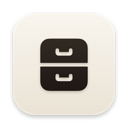
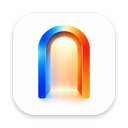
新 App 圖示（拱門）；選單列改用拱門線條圖示，任何東西拖上去就收進珍奇櫃
Claude-Session: https://claude.ai/code/session_01C1Pj9U9BGrmXD7wjvS5Ajy

diff --git a/scripts/icon/make-icon.swift b/scripts/icon/make-icon.swift
@@ -1,13 +1,12 @@
-// App icon: the Reicon "cabinet" in ink on a sheet of paper.
+// App icon: the arch (a doorway into the cabinet), on the macOS icon grid.
 // 用法：swift scripts/icon/make-icon.swift <輸出的 1024 PNG>
 import AppKit
 
 let out = URL(fileURLWithPath: CommandLine.arguments[1])
 let size: CGFloat = 1024
-let glyphURL = URL(fileURLWithPath: "Wunderkammer/Resources/Assets.xcassets/Reicon/cabinet.filled.imageset/cabinet.filled.svg")
-guard let glyph = NSImage(contentsOf: glyphURL),
-      let mask = glyph.cgImage(forProposedRect: nil, context: nil, hints: [.ctm: AffineTransform(scale: 40)]) else {
-    fatalError("Reicon cabinet missing: run python3 scripts/reicon/generate.py")
+guard let art = NSImage(contentsOf: URL(fileURLWithPath: "scripts/icon/arch-source.png"))?
+        .cgImage(forProposedRect: nil, context: nil, hints: nil) else {
+    fatalError("scripts/icon/arch-source.png missing")
 }
 
 let rep = NSBitmapImageRep(bitmapDataPlanes: nil, pixelsWide: Int(size), pixelsHigh: Int(size), bitsPerSample: 8,
@@ -16,48 +15,31 @@ let rep = NSBitmapImageRep(bitmapDataPlanes: nil, pixelsWide: Int(size), pixelsH
 NSGraphicsContext.saveGraphicsState()
 NSGraphicsContext.current = NSGraphicsContext(bitmapImageRep: rep)
 let ctx = NSGraphicsContext.current!.cgContext
-let srgb = CGColorSpace(name: CGColorSpace.sRGB)!
 
 // macOS icon grid: 824 pt body centred in 1024, continuous corners.
 let body = CGRect(x: 100, y: 100, width: 824, height: 824)
 let shape = CGPath(roundedRect: body, cornerWidth: 185, cornerHeight: 185, transform: nil)
 
+// The body's shadow, then the artwork (white ground and all) clipped to it.
 ctx.saveGState()
 ctx.setShadow(offset: CGSize(width: 0, height: -14), blur: 34, color: CGColor(gray: 0, alpha: 0.28))
 ctx.addPath(shape)
-ctx.setFillColor(CGColor(srgbRed: 0.95, green: 0.93, blue: 0.89, alpha: 1))
+ctx.setFillColor(CGColor(gray: 1, alpha: 1))
 ctx.fillPath()
 ctx.restoreGState()
 
-// Paper: lighter at the top, a touch warmer at the bottom.
 ctx.saveGState()
 ctx.addPath(shape)
 ctx.clip()
-let paper = CGGradient(colorsSpace: srgb, colors: [
-    CGColor(srgbRed: 0.975, green: 0.962, blue: 0.935, alpha: 1),
-    CGColor(srgbRed: 0.918, green: 0.890, blue: 0.835, alpha: 1),
-] as CFArray, locations: [0, 1])!
-ctx.drawLinearGradient(paper, start: CGPoint(x: 0, y: body.maxY), end: CGPoint(x: 0, y: body.minY), options: [])
-// A faint inner edge, like the rim of a card.
-ctx.addPath(CGPath(roundedRect: body.insetBy(dx: 3, dy: 3), cornerWidth: 182, cornerHeight: 182, transform: nil))
-ctx.setStrokeColor(CGColor(gray: 1, alpha: 0.55))
-ctx.setLineWidth(4)
-ctx.strokePath()
-
-// The cabinet, in ink, with a soft shadow on the paper.
-let g: CGFloat = 470
-let glyphRect = CGRect(x: (size - g) / 2, y: (size - g) / 2 - 6, width: g, height: g)
-ctx.setShadow(offset: CGSize(width: 0, height: -10), blur: 22, color: CGColor(srgbRed: 0.25, green: 0.18, blue: 0.1, alpha: 0.28))
-ctx.beginTransparencyLayer(auxiliaryInfo: nil)
-ctx.clip(to: glyphRect, mask: mask)
-let ink = CGGradient(colorsSpace: srgb, colors: [
-    CGColor(srgbRed: 0.20, green: 0.17, blue: 0.14, alpha: 1),
-    CGColor(srgbRed: 0.11, green: 0.09, blue: 0.08, alpha: 1),
-] as CFArray, locations: [0, 1])!
-ctx.drawLinearGradient(ink, start: CGPoint(x: 0, y: glyphRect.maxY), end: CGPoint(x: 0, y: glyphRect.minY), options: [])
-ctx.endTransparencyLayer()
+ctx.interpolationQuality = .high
+ctx.draw(art, in: body)
 ctx.restoreGState()
+
+// A hairline so the white body holds its edge on a light Dock.
+ctx.addPath(shape)
+ctx.setStrokeColor(CGColor(gray: 0, alpha: 0.08))
+ctx.setLineWidth(2)
+ctx.strokePath()
 
 NSGraphicsContext.restoreGraphicsState()
 try! rep.representation(using: .png, properties: [:])!.write(to: out)
-print("寫入 \(out.path)")

diff --git a/Wunderkammer/App/StatusDrop.swift b/Wunderkammer/App/StatusDrop.swift
@@ -1,0 +1,69 @@
+import AppKit
+
+/// The menu bar icon: the app's arch, drawn in line. Anything dragged onto it
+/// (files, pictures, links, text) is collected; while something is held over
+/// it the arch fills in, so you know letting go will take it.
+@MainActor
+final class StatusDrop: NSObject, NSWindowDelegate, NSDraggingDestination {
+    /// Collects what was dropped; false when there was nothing it could use.
+    var onDrop: ((NSPasteboard) -> Bool)?
+
+    private weak var button: NSStatusBarButton?
+
+    /// An arch, ∩, as a menu bar template: outlined, or filled while a drop hovers.
+    static func arch(filled: Bool) -> NSImage {
+        let image = NSImage(size: NSSize(width: 18, height: 18), flipped: false) { _ in
+            let w: CGFloat = 11, legs: CGFloat = 3, top: CGFloat = 15.5, inset = (18 - w) / 2
+            let r = w / 2
+            let path = NSBezierPath()
+            path.move(to: NSPoint(x: inset, y: legs))
+            path.line(to: NSPoint(x: inset, y: top - r))
+            path.appendArc(withCenter: NSPoint(x: 9, y: top - r), radius: r, startAngle: 180, endAngle: 0, clockwise: true)
+            path.line(to: NSPoint(x: 18 - inset, y: legs))
+            NSColor.black.set()
+            if filled {
+                path.close()
+                path.fill()
+            } else {
+                path.lineWidth = 2
+                path.lineCapStyle = .round
+                path.lineJoinStyle = .round
+                path.stroke()
+            }
+            return true
+        }
+        image.isTemplate = true
+        image.accessibilityDescription = "Wunderkammer"
+        return image
+    }
+
+    /// Takes drops on the status item's button. The status item's window hands
+    /// its dragging messages to its delegate, which is this.
+    func attach(to button: NSStatusBarButton) {
+        self.button = button
+        button.image = Self.arch(filled: false)
+        button.window?.registerForDraggedTypes([.fileURL, .URL, .string, .png, .tiff, .html, .rtf])
+        button.window?.delegate = self
+    }
+
+    private func hovering(_ on: Bool) {
+        button?.image = Self.arch(filled: on)
+        button?.highlight(on)
+    }
+
+    func draggingEntered(_ sender: any NSDraggingInfo) -> NSDragOperation {
+        hovering(true)
+        return .copy
+    }
+
+    func draggingUpdated(_ sender: any NSDraggingInfo) -> NSDragOperation { .copy }
+
+    func draggingExited(_ sender: (any NSDraggingInfo)?) { hovering(false) }
+
+    func performDragOperation(_ sender: any NSDraggingInfo) -> Bool {
+        hovering(false)
+        return onDrop?(sender.draggingPasteboard) ?? false
+    }
+
+    func concludeDragOperation(_ sender: (any NSDraggingInfo)?) { hovering(false) }
+}

diff --git a/Wunderkammer/App/AppDelegate.swift b/Wunderkammer/App/AppDelegate.swift
@@ -91,6 +91,7 @@ final class AppDelegate: NSObject, NSApplicationDelegate, NSSearchFieldDelegate,
     private var pendingVia: Trail.Via?
     private var spotlight: SpotlightIndexer?
     private var statusItem: NSStatusItem?
+    private let statusDrop = StatusDrop()
     private lazy var settings: SettingsWindowController = {
         let s = SettingsWindowController()
         s.onShortcutsChanged = { [weak self] in
@@ -464,8 +465,9 @@ final class AppDelegate: NSObject, NSApplicationDelegate, NSSearchFieldDelegate,
     private func buildStatusItem() {
         if let old = statusItem { NSStatusBar.system.removeStatusItem(old) }
         let item = NSStatusBar.system.statusItem(withLength: NSStatusItem.squareLength)
-        item.button?.image = Icon.image(.cabinet, size: 16)
-        item.button?.toolTip = "Wunderkammer"
+        item.button?.toolTip = "Wunderkammer：把東西拖到這裡就收進珍奇櫃"
+        if let button = item.button { statusDrop.attach(to: button) }
+        statusDrop.onDrop = { [weak self] pasteboard in self?.capture.collectDrop(pasteboard) ?? false }
         let menu = NSMenu()
         Self.show(CaptureController.captureShortcut, on: menu.addItem(withTitle: "收藏剪貼簿或目前頁面", action: #selector(captureNow), keyEquivalent: ""))
         Self.show(CaptureController.screenshotShortcut, on: menu.addItem(withTitle: "截圖收藏", action: #selector(captureScreenshot), keyEquivalent: ""))
@@ -1273,6 +1275,7 @@ final class AppDelegate: NSObject, NSApplicationDelegate, NSSearchFieldDelegate,
     var sidebarToggleForTest: NSView { topBar.sidebarButton }
     var isSidebarCollapsed: Bool { sidebarItem.isCollapsed }
     func flipCabinetForTest() { cabinetsPanel?.flipForTest(cabinets.currentID) }
+    func collectDropForTest(_ pasteboard: NSPasteboard) -> Bool { capture.collectDrop(pasteboard) }
     func setCoverForTest(_ picture: URL?) -> Bool {
         defer { cabinetsChanged() }
         guard let picture else { cabinets.clearCover(for: cabinets.currentID); return true }

diff --git a/Wunderkammer/App/SelfTest.swift b/Wunderkammer/App/SelfTest.swift
@@ -233,6 +233,14 @@ final class SelfTest {
                 p.waitUntilExit()
             }
             check(toast.panel?.isVisible == true && toast.panel?.isKeyWindow == false, "toast shows without taking focus")
+            // Dropped on the menu bar's arch: collected like ⌘⇧C.
+            let before = library.items.count
+            let pb = NSPasteboard(name: NSPasteboard.Name("wk-drop-test"))
+            pb.clearContents()
+            pb.setString("拖到選單列的一句話 \(UUID().uuidString.prefix(6))", forType: .string)
+            check(ui.collectDropForTest(pb), "the menu bar arch takes a drop")
+            for _ in 0..<20 where library.items.count == before { await wait(0.25) }
+            check(library.items.count == before + 1, "what was dropped is collected (\(before) → \(library.items.count))")
             return finish()
         case "relations":
             await relationsCheck()
@@ -1532,6 +1540,7 @@ protocol SelfTestUI: AnyObject {
     var sidebarToggleForTest: NSView { get }
     var isSidebarCollapsed: Bool { get }
     func flipCabinetForTest()
+    func collectDropForTest(_ pasteboard: NSPasteboard) -> Bool
     func setCoverForTest(_ picture: URL?) -> Bool
     func setVaultForTest(_ folder: URL?)
     func leaveEmptySearchForTest()

diff --git a/Wunderkammer/Cabinet/EmptyCabinetView.swift b/Wunderkammer/Cabinet/EmptyCabinetView.swift
@@ -52,7 +52,7 @@ final class EmptyCabinetView: NSView {
         let capture = CaptureController.captureShortcut.display
         let ways = NSStackView(views: [
             way(.clipboard, "看到喜歡的東西，按 \(capture)", "圖片、網址、文字；在瀏覽器裡直接收目前的頁面"),
-            way(.inboxIn, "把東西拖進這個視窗", "檔案、資料夾、圖片、連結都可以，或拖到 Dock 上的 icon"),
+            way(.inboxIn, "把東西拖進這個視窗", "檔案、資料夾、圖片、連結都可以；也能拖到選單列的拱門或 Dock 上的圖示"),
             way(.share, "在任何 app 的分享選單選 Wunderkammer", "不用想要放哪裡，系統會替你整理"),
         ])
         ways.orientation = .vertical

diff --git a/Wunderkammer/Capture/CaptureController.swift b/Wunderkammer/Capture/CaptureController.swift
@@ -181,6 +181,14 @@ final class CaptureController: NSObject {
 
     // MARK: Common end
 
+    /// Something dropped on the menu bar icon: collected like ⌘⇧C, with its toast.
+    func collectDrop(_ pasteboard: NSPasteboard) -> Bool {
+        let sources = PasteboardReader.sources(from: pasteboard)
+        guard !sources.isEmpty else { return false }
+        Task { await collect(sources, sourceApp: nil) }
+        return true
+    }
+
     private func collect(_ sources: [Source], sourceApp: String?) async {
         guard !sources.isEmpty else { return }
         let before = Set(library.items.map(\.id))
